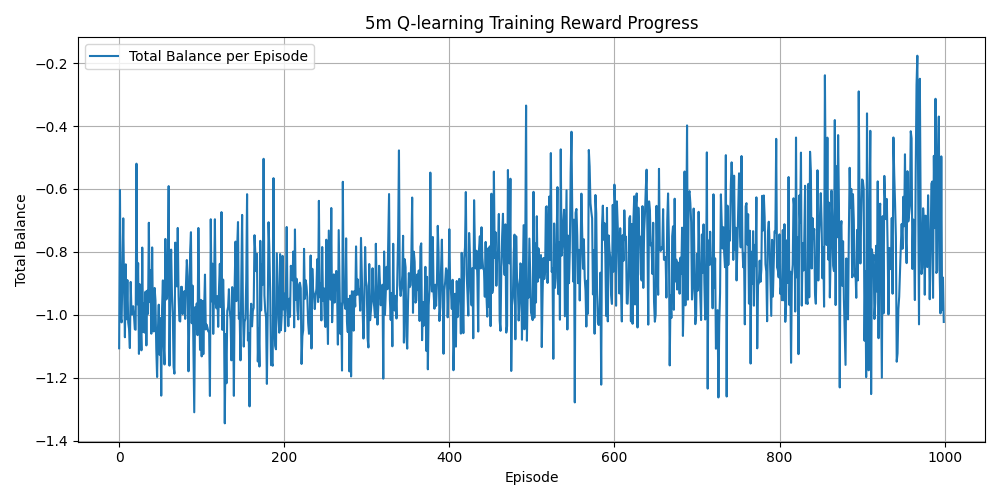
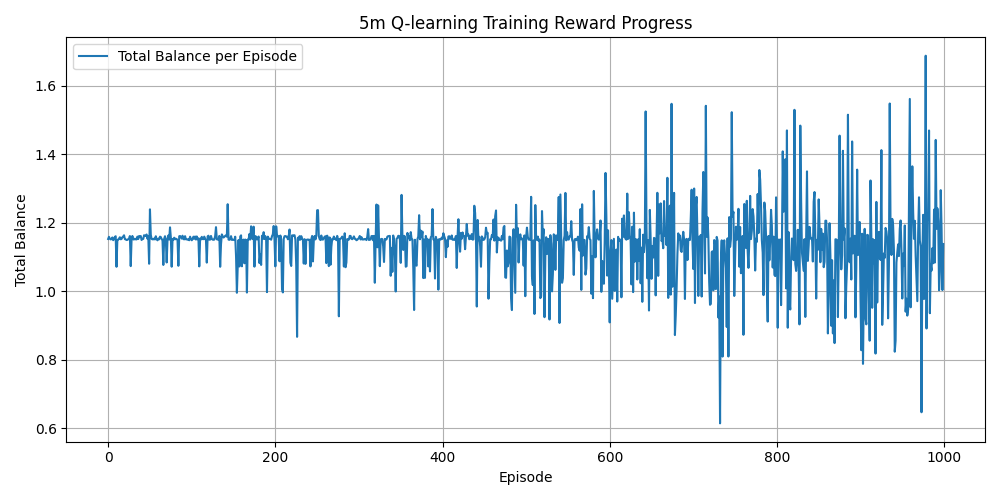
making money

diff --git a/Env_5m.py b/Env_5m.py
@@ -42,7 +42,7 @@ class TradingEnv_5m(gym.Env):
     # Method to reset the environment
     def reset(self):
         self.position = 0
-        self.current_step = 6 # start with 6 k bar to get the first SNR if using statistical SNR (does not affect CNN SNR)
+        self.current_step = 0 # start with 6 k bar to get the first SNR if using statistical SNR (does not affect CNN SNR)
         self.balance = 100.0
         self.position_price = 0.0
         self.sr_manager.reset_levels()
@@ -127,19 +127,34 @@ class TradingEnv_5m(gym.Env):
             else:
                 unrealized_reward = ret_pct
         
-        # action definition
-        if action == 0: # call
-            if self.position == 0:
-                self.position = 1
-                self.position_price = price
-                # print("Call Enter Price:", price)
+        # If agent chooses to enter a new position and is already in one → close first
+        if action in [0, 1] and self.position != 0:
+            realized_reward += self._close_position(price)
+
+        # Execute action
+        if action == 0:  # call / long
+            self.position = 1
+            self.position_price = price
         elif action == 1:  # short
-            if self.position == 0:
-                self.position = -1
-                self.position_price = price
-                # print("Short Enter Price:", price)
+            self.position = -1
+            self.position_price = price
         elif action == 2:  # hold
             pass
+
+        
+        # # action definition
+        # if action == 0: # call
+        #     if self.position == 0:
+        #         self.position = 1
+        #         self.position_price = price
+        #         # print("Call Enter Price:", price)
+        # elif action == 1:  # short
+        #     if self.position == 0:
+        #         self.position = -1
+        #         self.position_price = price
+        #         # print("Short Enter Price:", price)
+        # elif action == 2:  # hold
+        #     pass
 
         self.current_step += 1
         if self.current_step >= len(self.df) - 1:
@@ -165,7 +180,7 @@ class TradingEnv_5m(gym.Env):
         
         # reward = realized_reward + unrealized_reward
         # future_reward = self._calculate_future_reward(10)
-        reward = realized_reward + unrealized_reward + (0.95 * simulated_reward)
+        # reward = realized_reward + unrealized_reward + (0.95 * simulated_reward)
 
         return obs, reward, done, info
     

diff --git a/test_5m.py b/test_5m.py
@@ -8,11 +8,11 @@ import matplotlib.pyplot as plt
 with open("4h_q_table.pkl", "rb") as f:
     q_table_4h = pickle.load(f)
 
-df_4h = fetch_binanceus_ohlcv('SOL/USDT', '4h', start_time='2025-06-10T00:00:00Z', end_time='2025-06-20T00:00:00Z')
+df_4h = fetch_binanceus_ohlcv('SOL/USDT', '4h', start_time='2024-01-01T00:00:00Z', end_time='2025-06-20T00:00:00Z')
 df_4h['timestamp'] = df_4h.index
 df_4h.reset_index(drop=True, inplace=True)
 
-df_5m = fetch_binanceus_ohlcv('SOL/USDT', '5m', start_time='2025-06-10T00:00:00Z', end_time='2025-06-20T00:00:00Z')
+df_5m = fetch_binanceus_ohlcv('SOL/USDT', '5m', start_time='2025-06-21T00:00:00Z', end_time='2025-06-24T00:00:00Z')
 df_5m['timestamp'] = df_5m.index
 df_5m.reset_index(drop=True, inplace=True)
 
@@ -58,17 +58,17 @@ for episode in range(episodes):
             q_table[state_d] = np.zeros(env.action_space.n)
             q_update[state_d] = np.zeros(env.action_space.n)
 
-        if info["position"] != 0:
-                action = 2
-                while info["position"] != 0 :
-                    next_state, reward, done, info = env.step(action)
+        # if info["position"] != 0:
+        #         action = 2
+        #         while info["position"] != 0 :
+        #             next_state, reward, done, info = env.step(action)
                 
-        elif np.random.rand() < epsilon and info["position"] == 0:
+        if np.random.rand() < epsilon: # and info["position"] == 0:
             action = env.action_space.sample()
-            next_state, reward, done, info = env.step(action)
+            # next_state, reward, done, info = env.step(action)
         else:
             action = np.argmax(q_table[state_d])
-            next_state, reward, done, info = env.step(action)
+        next_state, reward, done, info = env.step(action)
 
         next_state_d = discretize_state(next_state)
 

diff --git a/test.py b/test.py
@@ -37,7 +37,7 @@ for episode in range(episodes):
     state_d = discretize_state(state)
     total_reward = 0
     done = False
-    info = {'balance':100, 'position': 0}
+    # info = {'balance':100, 'position': 0}
 
 
     while not done:
@@ -48,19 +48,20 @@ for episode in range(episodes):
 
         # Block agent from changing position prior to a close
         # This is not possible in the real market (e.g. you cannot change to a short from a call once the order has been placed)
-        if info["position"] != 0:
-            action = 2
-            while info["position"] != 0 :
-                next_state, reward, done, info = env.step(action)
+        # if info["position"] != 0:
+        #     action = 2
+        #     while info["position"] != 0 :
+        #         next_state, reward, done, info = env.step(action)
 
         # Choose a random action if random action probability is higher than epsilon        
-        elif np.random.rand() < epsilon and info["position"] == 0:
+        if np.random.rand() < epsilon: # and info["position"] == 0:
             action = env.action_space.sample()
-            next_state, reward, done, info = env.step(action)
+            # next_state, reward, done, info = env.step(action)
         # Otherwise use q table
         else:
             action = np.argmax(q_table[state_d])
-            next_state, reward, done, info = env.step(action)
+        
+        next_state, reward, done, info = env.step(action)
 
         # Get the next observation and discreteize it
         next_state_d = discretize_state(next_state)

diff --git a/test_pkl_performance.py b/test_pkl_performance.py
@@ -6,14 +6,14 @@ import matplotlib.pyplot as plt
 import os
 
 
-with open("4h_q_table.pkl", "rb") as f:
+with open("future_4h_q_table.pkl", "rb") as f:
     q_table_4h = pickle.load(f)
 
-df_4h = fetch_binanceus_ohlcv('SOL/USDT', '4h', start_time='2022-01-01T00:00:00Z', end_time='2022-06-10T00:00:00Z')
+df_4h = fetch_binanceus_ohlcv('SOL/USDT', '4h', start_time='2025-06-25T00:00:00Z', end_time='2025-06-26T00:00:00Z')
 df_4h['timestamp'] = df_4h.index
 df_4h.reset_index(drop=True, inplace=True)
 
-df_5m = fetch_binanceus_ohlcv('BTC/USDT', '5m', start_time='2022-01-01T00:00:00Z', end_time='2022-06-10T00:00:00Z')
+df_5m = fetch_binanceus_ohlcv('BTC/USDT', '5m', start_time='2025-06-25T00:00:00Z', end_time='2025-06-26T00:00:00Z')
 df_5m['timestamp'] = df_5m.index
 df_5m.reset_index(drop=True, inplace=True)
 
@@ -47,8 +47,8 @@ reward_log = []
 epsilon = 0 
 decay_rate = 0.99
 
-if os.path.exists("5m_q_table.pkl"):
-    with open("5m_q_table.pkl", "rb") as f:
+if os.path.exists("future_4h_q_table.pkl"):
+    with open("future_4h_q_table.pkl", "rb") as f:
         q_table = pickle.load(f)
         # Also initialize q_update keys
         for state in q_table:

diff --git a/Env_4h.py b/Env_4h.py
@@ -98,6 +98,10 @@ class TradingEnv_4h(gym.Env):
             else:
                 unrealized_reward = ret_pct
 
+        # If agent chooses to enter a new position and is already in one → close first
+        # if action in [0, 1] and self.position != 0:
+        #     realized_reward += self._close_position(price)
+
         # Execute action
         if action == 0:  # call / long
             self.position = 1
